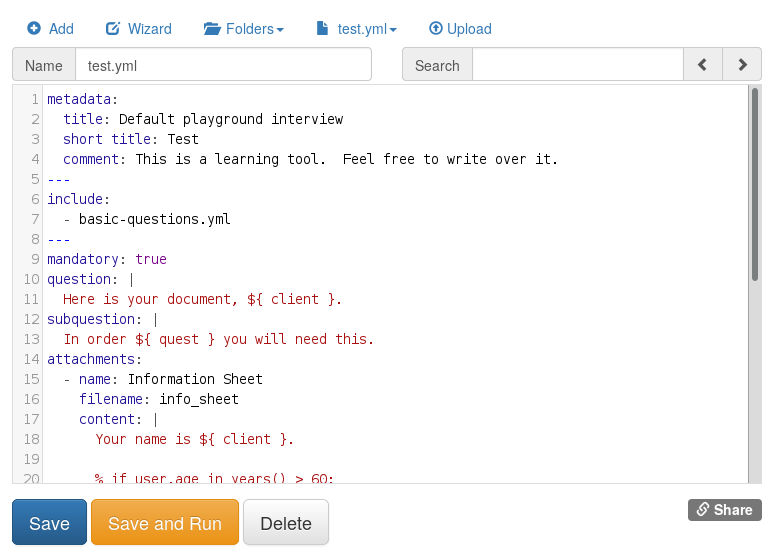
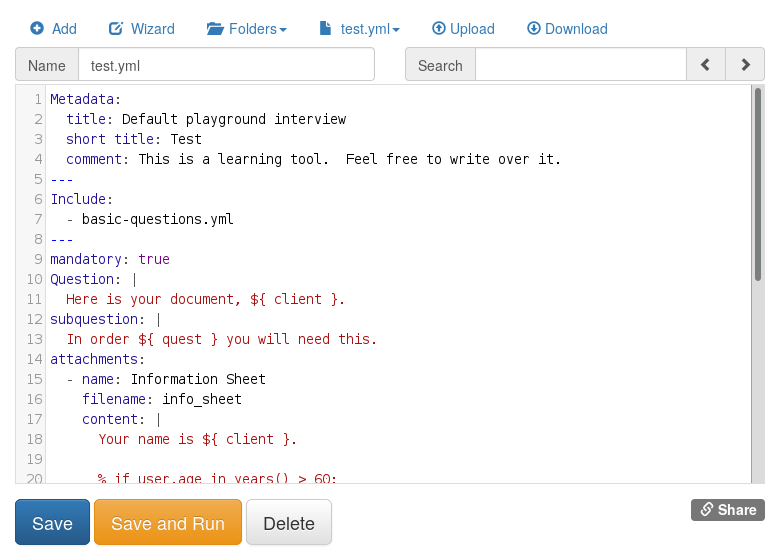
exit button mixture

diff --git a/_docs/playground.md b/_docs/playground.md
@@ -27,6 +27,12 @@ aria-hidden="true"></i> Upload.  The filename of the file you upload
 will be used as the name of the file in the Playground.  If a file
 exists with the same name, it will be overwritten.
 
+To download the [YAML] file that is currently displayed, click <i
+class="glyphicon glyphicon-upload" aria-hidden="true"></i> Download.
+Note that if there are unsaved changes, the changes will _not_ be
+reflected in the downloaded file; you would need to press the Save
+button first in order to download the changed file.
+
 You can use multiple files to organize parts of a single interview.
 For example, if you have a file called "interview.yml" and a file called
 "questions.yml," you can incorporate one into the other by reference.
